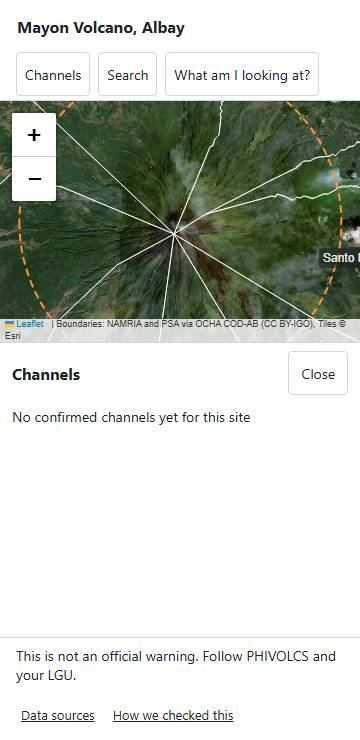
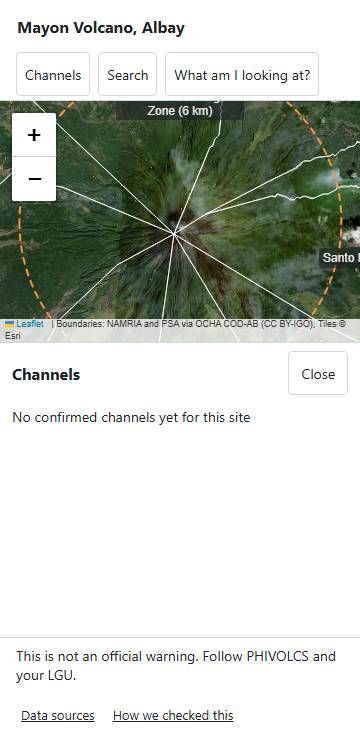
T-097: let town names win over the danger-zone label at the phone opening view
The label now sits inside the ring's north edge on two lines, and channel labels give way to town names.

Changed region(s): [[0.3056, 0.1243, 0.6722, 0.1865]]

diff --git a/site/js/map.js b/site/js/map.js
@@ -7,6 +7,8 @@ import { STRINGS } from "./strings.js";
 const TILE_URL = "https://server.arcgisonline.com/ArcGIS/rest/services/World_Imagery/MapServer/tile/{z}/{y}/{x}";
 const TILE_FAILURES_FOR_NOTICE = 4;
 const PHONE_LAYOUT = "(max-width: 700px)"; // the same width as in app.css
+const PHONE_LABEL_DROP_PX = 22; // far enough inside the ring to clear the town names beside its top edge
+const RING_ROOM_PX = 26; // the room the ring needs above the map credits to show clearly
 const TOWN_STYLE = { color: "#ffffff", weight: 1, opacity: 0.8, fill: false };
 const COAST_STYLE = { color: "#7dd3fc", weight: 2, fill: false };
 const RING_STYLE = { color: "#fb923c", weight: 2, fill: false, dashArray: "6 6" };
@@ -58,12 +60,18 @@ function addDangerZone(map, site) {
     L.circle(center, { ...REACH_STYLE, radius: site.detection_reach_km * 1000, interactive: false }).addTo(map);
   }
   const ring = L.circle(center, { ...RING_STYLE, radius: site.danger_zone_radius_km * 1000, interactive: false }).addTo(map);
-  // The label sits just outside the ring's southern edge. At Mayon the northern edge
-  // puts it on top of Tabaco City.
-  return L.tooltip({ permanent: true, direction: "bottom", className: "zone-label", interactive: false })
-    .setLatLng([ring.getBounds().getSouth(), site.summit_lon])
+  // The label sits just outside the ring's southern edge. At Mayon the northern edge puts it on
+  // top of Tabaco City. A phone has no room for it there beside the towns and the map credits, so
+  // it hangs inside the northern edge on two lines, and the town names keep their places.
+  const onPhone = window.matchMedia(PHONE_LAYOUT).matches;
+  return L.tooltip({ permanent: true, direction: "bottom", offset: [0, onPhone ? PHONE_LABEL_DROP_PX : 0], className: onPhone ? "zone-label zone-label-phone" : "zone-label", interactive: false })
+    .setLatLng([onPhone ? ring.getBounds().getNorth() : ring.getBounds().getSouth(), site.summit_lon])
     .setContent(escapeText(site.danger_zone_label))
     .addTo(map);
+}
+
+function boxesTouch(a, b) {
+  return a.left < b.right && a.right > b.left && a.top < b.bottom && a.bottom > b.top;
 }
 
 // Zoomed out, labels crowd together. The danger zone matters most, so a town's name
@@ -72,13 +80,26 @@ function keepZoneLabelClear(map, zoneLabel, townLabels) {
   function update() {
     const zone = zoneLabel.getElement().getBoundingClientRect();
     for (const town of townLabels) {
-      const box = town.getElement().getBoundingClientRect();
-      const touches = box.left < zone.right && box.right > zone.left && box.top < zone.bottom && box.bottom > zone.top;
+      const touches = boxesTouch(town.getElement().getBoundingClientRect(), zone);
       town.getElement().style.visibility = touches ? "hidden" : "";
     }
   }
   map.on("zoomend moveend resize", update);
   update();
+}
+
+// On a phone a town's name matters more than a channel's, and the Channels list still names them all.
+function keepTownLabelsClear(map, townLabels) {
+  function update() {
+    const towns = townLabels.map((town) => town.getElement())
+      .filter((town) => town.style.visibility !== "hidden")
+      .map((town) => town.getBoundingClientRect());
+    for (const label of map.getContainer().querySelectorAll(".channel-label")) {
+      const touches = towns.some((town) => boxesTouch(town, label.getBoundingClientRect()));
+      label.style.visibility = touches ? "hidden" : "";
+    }
+  }
+  map.on("zoomend moveend resize layeradd", update);
 }
 
 // A file's polygon outlines as lines, leaving out any stretch along the site's edge. Land and
@@ -117,14 +138,15 @@ function boundaryCredit(site) {
 }
 
 // Open at the site's own view. On a short phone screen the danger-zone ring runs behind the map
-// credits and takes its label with it, so the map opens one zoom step further out (FR-001).
+// credits, so the map opens one zoom step further out (FR-001).
 export function showStartView(map, site) {
   const center = [site.center_lat, site.center_lon];
   map.setView(center, site.default_zoom, { animate: false });
-  const label = map.getContainer().querySelector(".zone-label");
-  if (!label || !window.matchMedia(PHONE_LAYOUT).matches) return;
-  const credits = map.attributionControl.getContainer();
-  if (label.getBoundingClientRect().bottom > credits.getBoundingClientRect().top) {
+  if (site.danger_zone_radius_km == null || !window.matchMedia(PHONE_LAYOUT).matches) return;
+  const ring = L.latLng(site.summit_lat, site.summit_lon).toBounds(site.danger_zone_radius_km * 2000);
+  const ringBottom = map.latLngToContainerPoint([ring.getSouth(), site.summit_lon]).y;
+  const creditsTop = map.getSize().y - map.attributionControl.getContainer().offsetHeight;
+  if (ringBottom + RING_ROOM_PX > creditsTop) {
     map.setView(center, site.default_zoom - 1, { animate: false });
   }
 }
@@ -144,5 +166,6 @@ export function createMap(site, siteData, notice) {
   const townLabels = addTowns(map, siteData.towns, site);
   const zoneLabel = addDangerZone(map, site);
   if (zoneLabel) keepZoneLabelClear(map, zoneLabel, townLabels);
+  if (window.matchMedia(PHONE_LAYOUT).matches) keepTownLabelsClear(map, townLabels);
   return map;
 }

diff --git a/site/index.html b/site/index.html
@@ -5,7 +5,7 @@
   <meta name="viewport" content="width=device-width, initial-scale=1">
   <title>Mayon Radar Watch</title>
   <link rel="stylesheet" href="vendor/leaflet-1.9.4/leaflet.css">
-  <link rel="stylesheet" href="css/app.css?v=b7402d78eb">
+  <link rel="stylesheet" href="css/app.css?v=dd1f70c2c5">
 </head>
 <body>
   <!-- The text of these elements comes from js/strings.js. -->
@@ -138,7 +138,7 @@
     "./js/drawer.js": "./js/drawer.js?v=7e42d26b68",
     "./js/layers.js": "./js/layers.js?v=9d3b3edbe4",
     "./js/main.js": "./js/main.js?v=5bd6467ad1",
-    "./js/map.js": "./js/map.js?v=09e64dd4bb",
+    "./js/map.js": "./js/map.js?v=c65916d318",
     "./js/panels.js": "./js/panels.js?v=1249ebdf55",
     "./js/readout.js": "./js/readout.js?v=a8efc307b7",
     "./js/search.js": "./js/search.js?v=49363b9f38",

diff --git a/site/css/app.css b/site/css/app.css
@@ -627,6 +627,7 @@ button:disabled { color: #6e7781; }
   .drawer-closed .pair-events { display: none; }
   .drawer-closed .timeline-status:has(#timeline-message:empty):has(#timeline-retry[hidden]) { display: none; }
   .timeline-controls select { padding: 0 4px; }
+  .zone-label-phone { width: 128px; white-space: normal; text-align: center; line-height: 1.2; }
   .leaflet-control-attribution { font-size: 9px; line-height: 1.2; }
   /* FR-049: padding makes the credit link a 44 px target, and the equal negative margin
      keeps the credit bar small, so the extra height doesn't cover more of the map. */

diff --git a/pipeline/tests/e2e/test_drawer.py b/pipeline/tests/e2e/test_drawer.py
@@ -129,6 +129,58 @@ def test_tc082_a_short_phone_opens_one_zoom_step_out_with_the_label_clear(page, 
     assert label["y"] + label["height"] <= credits["y"]
 
 
+# Lists problems with the town names at the opening view: hidden, or with a channel label on top.
+TOWN_PROBLEMS = """(() => {
+  const touch = (a, b) => a.left < b.right && a.right > b.left && a.top < b.bottom && a.bottom > b.top;
+  const shown = (label) => label.style.visibility !== 'hidden';
+  const towns = [...document.querySelectorAll('.town-label')];
+  const hidden = towns.filter((town) => !shown(town)).map((town) => town.textContent);
+  const onTop = [...document.querySelectorAll('.channel-label')].filter(shown)
+    .filter((label) => towns.some((town) => touch(town.getBoundingClientRect(), label.getBoundingClientRect())))
+    .map((label) => label.textContent);
+  return [...hidden, ...onTop];
+})()"""
+# Lists the town names that aren't whole on the map, above the credits.
+TOWNS_IN_VIEW = """(() => {
+  const map = document.getElementById('map').getBoundingClientRect();
+  const credits = document.querySelector('.leaflet-control-attribution').getBoundingClientRect();
+  return [...document.querySelectorAll('.town-label')].filter((town) => {
+    const box = town.getBoundingClientRect();
+    return box.left >= map.left && box.right <= map.right && box.top >= map.top && box.bottom <= credits.top;
+  }).map((town) => town.textContent);
+})()"""
+
+
+def label_clears_the_credits(page):
+    label = page.locator(".zone-label").bounding_box()
+    assert label["y"] >= page.locator("#map").bounding_box()["y"]
+    assert label["y"] + label["height"] <= page.locator(".leaflet-control-attribution").bounding_box()["y"]
+
+
+def test_tc082_town_names_win_at_the_opening_view_on_a_short_phone(page, site_url):
+    open_at(page, site_url, 360, 640)
+    assert page.evaluate(TOWN_PROBLEMS) == []
+    assert {"Daraga", "Legazpi City", "Camalig", "Santo Domingo"} <= set(page.evaluate(TOWNS_IN_VIEW))
+    label_clears_the_credits(page)
+    expect(page.locator(".zone-label")).to_have_text("Permanent Danger Zone (6 km)")
+
+
+@pytest.mark.parametrize("letter_spacing", ["0", "0.6px"])
+def test_tc082_the_label_clears_the_credits_on_the_smallest_phone(page, site_url, letter_spacing):
+    """Extra space between letters makes any machine's font as wide as CI's."""
+    page.add_init_script("addEventListener('DOMContentLoaded', () => { const style = document.createElement('style');"
+                         f"style.textContent = '* {{ letter-spacing: {letter_spacing} !important; }}'; document.head.append(style); }});")
+    open_at(page, site_url, 320, 568)
+    label_clears_the_credits(page)
+    assert page.evaluate(TOWN_PROBLEMS) == []
+
+
+def test_tc082_a_desktop_keeps_the_label_below_the_ring(app):
+    expect(app.locator(".zone-label-phone")).to_have_count(0)
+    box = app.locator(".zone-label").bounding_box()
+    assert box["y"] > app.locator("#map").bounding_box()["y"] + app.locator("#map").bounding_box()["height"] / 2
+
+
 @pytest.mark.parametrize("width, height", [(390, 844), (1280, 500)])
 def test_tc082_a_tall_phone_or_a_short_desktop_keeps_the_default_zoom(page, site_url, width, height):
     open_at(page, site_url, width, height)

diff --git a/docs/01-prd.md b/docs/01-prd.md
@@ -66,7 +66,7 @@ As a visitor, I want to open the app and see a map of the Mayon area with town b
 
 **Acceptance criteria**
 
-- **US-001/AC-1:** Given the app loads the Mayon site, when the map appears, then it is centered on the site's center point at its default zoom, or one zoom step further out on a short phone screen where the danger-zone label wouldn't clear the map credits, and shows town borders, town names, the coastline, and a 6 km ring around the summit labeled "Permanent Danger Zone (6 km)".
+- **US-001/AC-1:** Given the app loads the Mayon site, when the map appears, then it is centered on the site's center point at its default zoom, or one zoom step further out on a short phone screen where the danger-zone ring wouldn't clear the map credits, and shows town borders, town names, the coastline, and a 6 km ring around the summit labeled "Permanent Danger Zone (6 km)".
 - **US-001/AC-2:** Given background map imagery fails to load, when the map appears, then town borders, the coastline and the danger-zone ring still show and the notice "Background map unavailable" appears.
 - **US-001/AC-3:** Given the site's land file stops at the site's edge, when the map appears, then no coastline or town border is drawn along that edge.
 
@@ -415,10 +415,10 @@ As the maintainer, I want the pipeline to compute each channel's flagged area fo
 
 | FR-ID | Requirement | F-ID | US-ID |
 | --- | --- | --- | --- |
-| FR-001 | The system shall center the map on the selected site's center point at the site's default zoom, or one zoom step further out on a short phone screen where the danger-zone label wouldn't clear the map credits. | F-01 | US-001 |
+| FR-001 | The system shall center the map on the selected site's center point at the site's default zoom, or one zoom step further out on a short phone screen where the danger-zone ring wouldn't clear the map credits. | F-01 | US-001 |
 | FR-002 | The system shall draw town borders and town names for the selected site. | F-01 | US-001 |
 | FR-003 | The system shall draw the coastline from the app's own land data, not from background imagery, and shall not draw a coastline or town border where the data is only clipped to the site's edge. | F-01 | US-001 |
-| FR-004 | The system shall draw a ring of the site's danger-zone radius around the summit, labeled with the site's danger-zone label, when the site defines one. | F-01 | US-001 |
+| FR-004 | The system shall draw a ring of the site's danger-zone radius around the summit, labeled with the site's danger-zone label, when the site defines one. On a phone the label sits inside the ring, so that town names keep their places at the opening view. | F-01 | US-001 |
 | FR-005 | The system shall show "Background map unavailable" when background imagery fails to load, while keeping borders, coastline and the danger-zone ring visible. | F-01 | US-001 |
 | FR-006 | The system shall let the visitor pan and zoom only between the site's minimum and maximum zoom levels. | F-01 | US-002 |
 | FR-007 | The system shall suggest matching town names once the visitor has typed at least 2 letters. | F-02 | US-003 |

diff --git a/docs/08-test-plan.md b/docs/08-test-plan.md
@@ -93,7 +93,7 @@ Fixtures used below are listed in §5.
 | TC-078 | US-014/AC-3 | FR-070, SCR-01, SCR-02, SCR-05, TBL-01, TBL-06, API-001 | A site's own wording | 1. Switch to Panama. 2. Read the legend, a card, the disclaimer, the help panel and the phone handle. 3. Switch back. | Panama says "change", names SINAPROC, titles the earthquake pair "Changed after the earthquake", and never says landslides there; Mayon's text comes back unchanged | Positive | High |
 | TC-079 | US-001/AC-3 | FR-003, SCR-01, API-004 | No line along a clipped edge | 1. Build the coast and town lines for each site. | The real lines are there; no segment runs along the site's edge | Negative | Medium |
 | TC-080 | US-017/AC-3 | FR-048, SCR-07, TBL-05, API-008 | A pair's check note | 1. Switch to Panama. 2. Select the quiet pair. 3. Open "How we checked this". | "Used as the 'before' comparison for the earthquake pair", not "Not yet checked" | Positive | Medium |
-| TC-082 | US-001/AC-1 | FR-001, FR-004, SCR-01 | Short phone screen | 1. Open the site at 360 x 640. 2. Open it at 390 x 844 and at 1280 x 500. | At 360 x 640 the map opens one zoom step out, still centered, with the danger-zone label above the credits; the other two keep the default zoom | Positive | Medium |
+| TC-082 | US-001/AC-1 | FR-001, FR-004, SCR-01 | Short phone screen | 1. Open the site at 360 x 640. 2. Open it at 390 x 844 and at 1280 x 500. | At 360 x 640 the map opens one zoom step out, still centered, with the danger-zone label above the credits and Daraga, Legazpi City, Camalig and Santo Domingo visible, with no town name hidden; at 320 x 568 the label also clears the credits; the other two keep the default zoom | Positive | Medium |
 | TC-081 | US-025/AC-5 | FR-071, FR-060, SCR-01, SCR-14, TBL-03, API-005 | A channel past the reach | 1. Look at the Mi-isi line on the map. 2. Open Mi-isi. 3. Tap the part past the reach. | That part is dashed and labeled "Not checked"; the strip stops at the reach; the card says "Not checked", never "No new material detected" | Edge | High |
 
 ## 4. Non-Functional Tests

diff --git a/NIGHT_REPORT.md b/NIGHT_REPORT.md
@@ -849,3 +849,17 @@ I'm stopping here. Your Google Earth check decides each line, and these need you
 - **Old verdicts:** the record in `mayon_channels.json` still lists these names as not confirmed. It stays that way until you give a verdict on the new lines.
 
 **Evidence:** see the CI page for `night-1`. A new test file checks the splitting, that no name uses another place's evidence, the KML legend, and that nothing is published.
+
+# Town names on phones (2026-11-01)
+
+**T-097 is done on `night-1`, not merged.** On phones, the danger-zone label now sits inside the ring near its north edge, on two lines, with its full wording. It no longer touches a town name or the credits. Desktop is unchanged.
+
+- **At 360 x 640:** Daraga, Legazpi City, Camalig and Santo Domingo all show whole, and no town name is hidden.
+- **At 320 x 568:** the 14 px overlap is gone, and the label clears the credits, with this machine's fonts and with wider ones.
+- **Channel names give way on phones.** A channel label that touches a town name is hidden. At the opening view on short phones that's Basud and Lidong. Their lines still show, zooming in brings the names back, and the Channels list names them.
+
+## Things to know
+
+- **At 320 x 568 the map is only about 260 px tall.** Camalig and Daraga sit behind the credits there, and so does Legazpi City with wider fonts. They aren't hidden by the label, but one zoom step can't fit them all.
+- **A taller phone shows fewer towns at the opening view.** At 360 x 740 the map stays at the default zoom, so all four of those towns are off the map or cut at its edge. That's the zoom rule you chose, and a change would need your decision.
+- **The zoom rule now looks at the ring, not the label.** The same screens zoom out as before. FR-001, FR-004, US-001/AC-1 and TC-082 say so.
